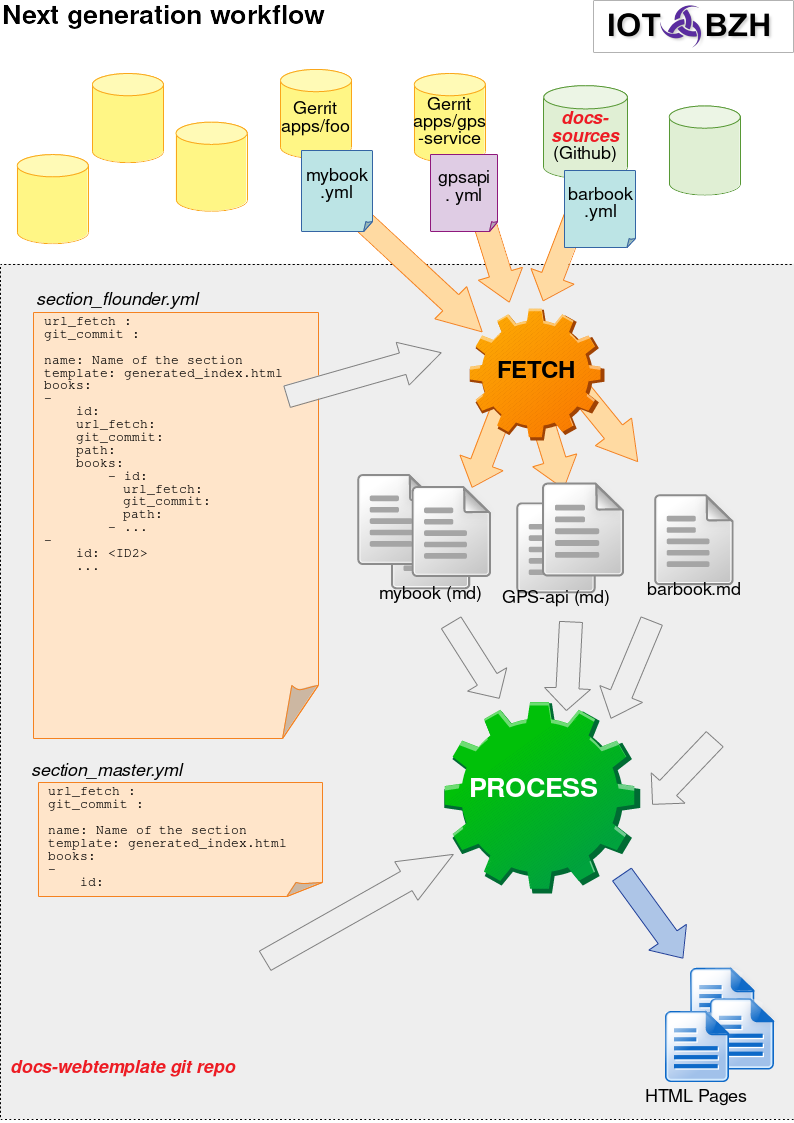
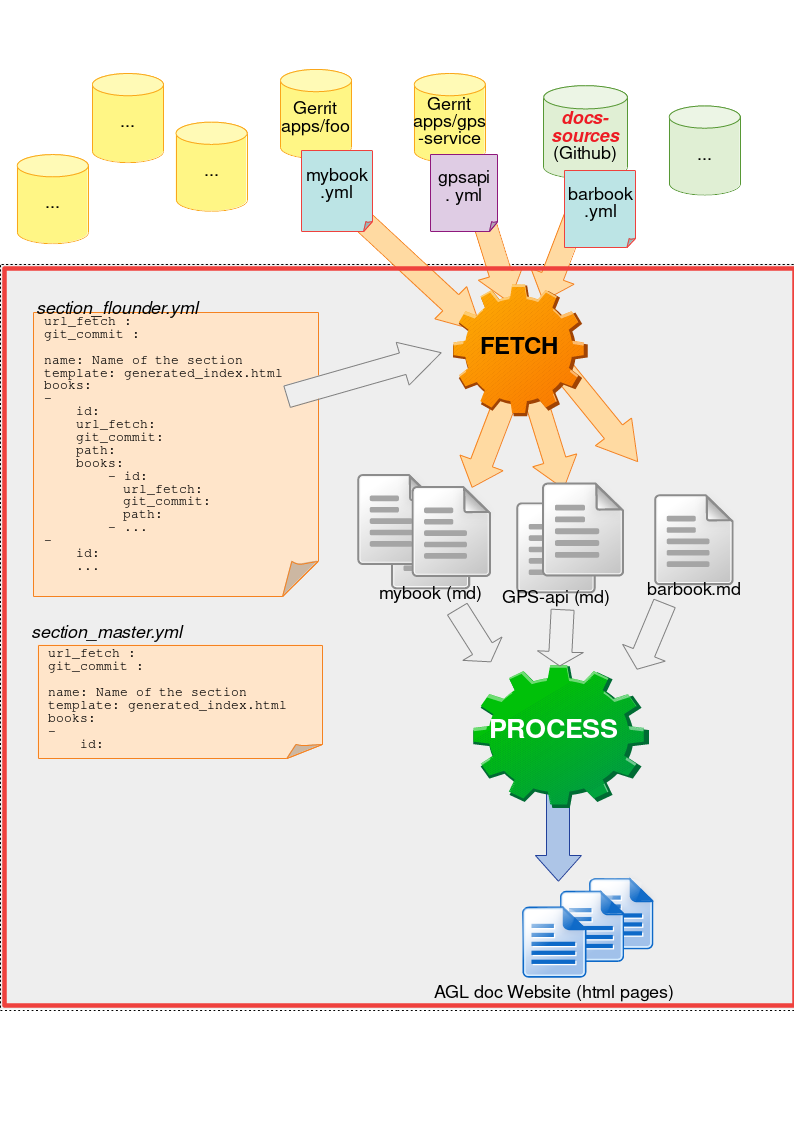
handle-doc: add a scheme into documentation

diff --git a/docs/handle-docs/handle-docs.md b/docs/handle-docs/handle-docs.md
@@ -5,7 +5,21 @@ A tool available in [docs-tools](https://github.com/automotive-grade-linux/docs-
 care of collecting and templating all markdown files according fetched_files.yml located in
 [docs-webtemplate](https://github.com/automotive-grade-linux/docs-webtemplate).
 
-<!-- TODO add SCHEMA + description of fetched_files.yml and book.yml logic -->
+See below a scheme of the workflow of agl documentation website generation.
+
+![alt text](pictures/workflow.png)
+
+As you can see, the section_``version``.yml contains the links to all the book yaml files, it is proceed to fetch all book yaml files from remote repositories to the docs-webtemplate. The book yaml files contains all the url to your markdown files from the remote repository.
+
+As soon as all the markdown files are fetched, the tools process to generate the AGL doc website.
+
+---
+
+**Note:**
+
+The images described in markdown files are automatically fetched. For that, the necessary condition is that in markdown files, the relative path has to match with the location of images.
+
+---
 
 ## How to add a new documentation section into AGL documentation
 
@@ -30,7 +44,29 @@ among others :
 - subchapters list and consequently subchapters hierarchy
 - multi-language description
 
-<!-- TODO: Add more explanation of multi-language support (eg. suffix xxx_en, xxx_jp ) -->
+---
+
+**Note:**
+
+Multi-language is handled by key suffixes. That is to say, there are some keys that can be suffixed by a language: ``<key>_<lang>``
+For the url to the markdown files, the prefix ```%lang%``` will match with suffixes. So, you have to create a subdirectory named ```%lang%``` where the markdown files are put.
+
+A example for the french:
+
+```
+name: "My section in english"
+name_fr: "Ma section en français"
+url: "%lang/section.md"
+```
+
+```
+$ ls -lR mydir
+book.yml
+section.md
+fr/section.md
+```
+
+---
 
 There are several types of book:
 
